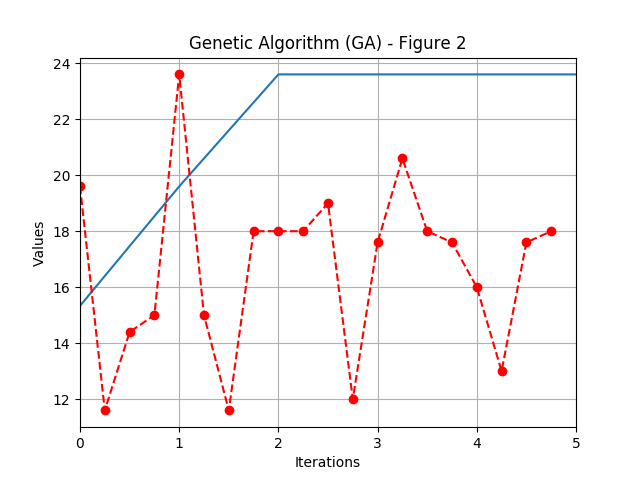
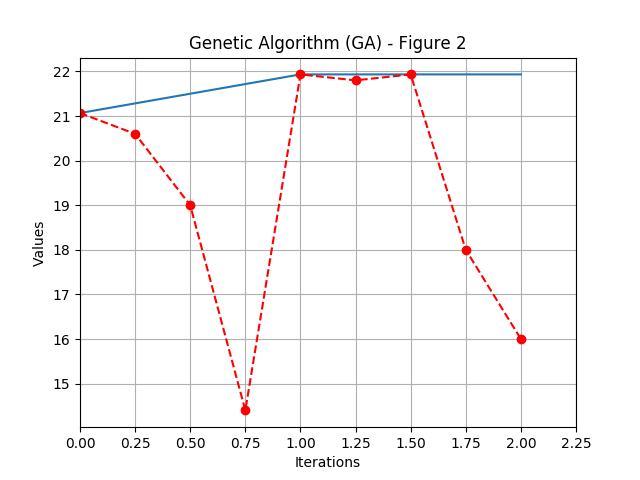
p

diff --git a/src/app.py b/src/app.py
@@ -26,8 +26,8 @@ problem.varmax = np.full(M, 1)
 
 # GA Parameters
 params = structure()
-params.maxit = 5
-params.npop = 5
+params.maxit = 2
+params.npop = 4
 params.mu = 0.5
 params.sigma = 0.5
 
@@ -45,12 +45,14 @@ out = ga.run(problem, params)
 
 
 y = out.ch
-x = np.arange(0.5, params.maxit, step=params.maxit/len(out.ch))
+y = np.insert(y, 0, out.bestcost[0])
+x = np.arange(0, params.maxit + params.maxit/len(out.ch), step=params.maxit/len(out.ch))
+
 plt.plot(out.bestcost)
 plt.plot(x, y, marker='o', linestyle='--', color='r', label='Square')
+plt.xlim(0, params.maxit + params.maxit/len(out.ch))
 """
 plt.plot(out.ch)
-plt.xlim(0, 2*params.maxit)
 plt.xticks(np.arange(0, params.maxit, step=0.5))
 """
 plt.xlabel('Iterations')
